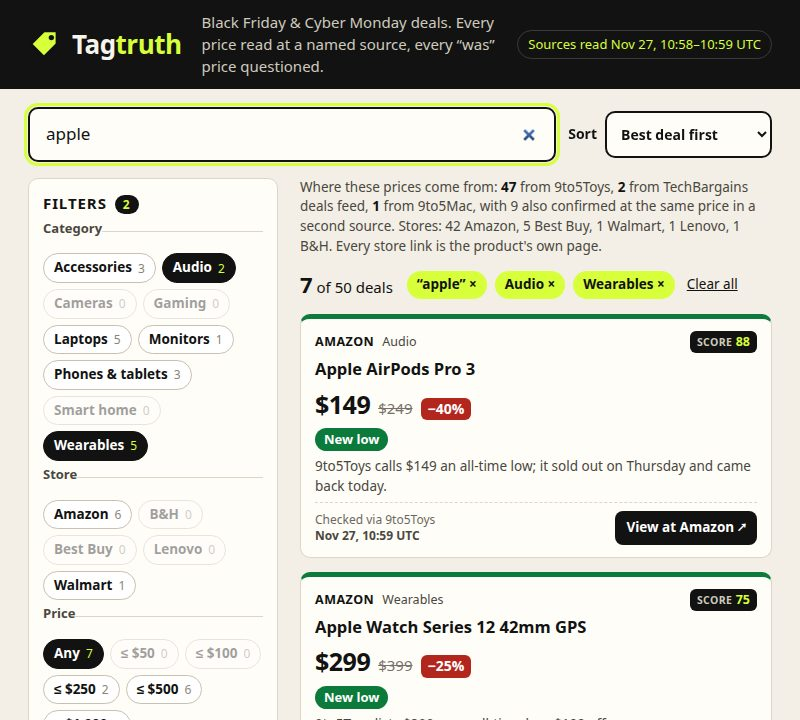
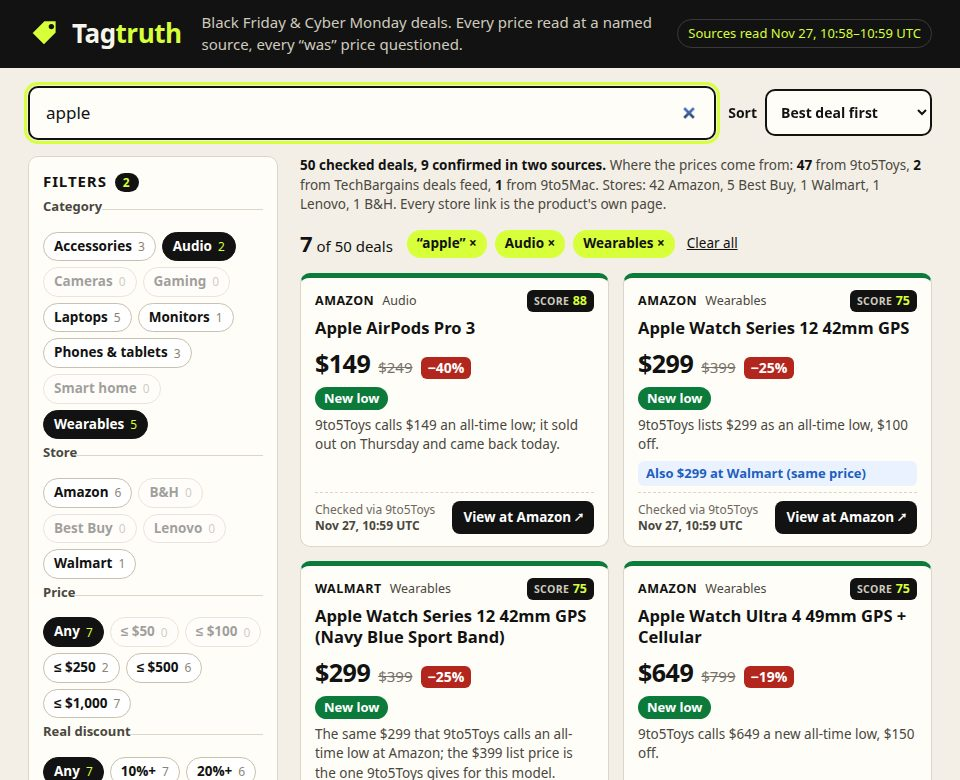
Review fixes: deal shot shows full trail and both stores, phone sort, verdict row
- Deal page: the source trail is a two-column grid on desktop with each value in one cell (block on phones).
- Deal page: store links in the comparison table don't wrap.
- Shot 3 is 800x860, so both store rows and the whole trail show.
- Shot 2 is 960x780: two card columns with the Walmart cross-store pill and the full filter column.
- Phone: the sort select fills the row, now that the label is the searchbar's flex child.
- The verdict row wraps, and the Inflated flag has no extra left margin.
- Removed the unused .v-routine and .v-inflated rules.
- The source line leads with "50 checked deals, 9 confirmed in two sources".

diff --git a/app/style.css b/app/style.css
@@ -80,8 +80,6 @@ main { max-width: 1320px; margin: 0 auto; padding: 18px 28px 32px; }
 .v-low { --vc: var(--low); }
 .v-match { --vc: var(--match); }
 .v-fair { --vc: var(--fair); }
-.v-routine { --vc: var(--routine); }
-.v-inflated { --vc: var(--inflated); }
 .card-top { display: flex; align-items: center; gap: 8px; font-size: 12.5px; }
 .store { font-weight: 800; text-transform: uppercase; letter-spacing: 0.04em; }
 .cat { color: var(--ink-2); }
@@ -93,7 +91,8 @@ main { max-width: 1320px; margin: 0 auto; padding: 18px 28px 32px; }
 .now { font-size: 25px; font-weight: 850; letter-spacing: -0.02em; }
 .was { color: #77716a; font-size: 15px; }
 .off { padding: 1px 7px; border-radius: 6px; background: var(--sale); color: #fff; font-weight: 800; font-size: 14px; }
-.verdict { margin: 0; display: flex; align-items: center; gap: 8px; }
+.verdict { margin: 0; display: flex; flex-wrap: wrap; align-items: center; gap: 6px 8px; }
+.verdict .flag { margin-left: 0; }
 .pill { display: inline-block; padding: 2px 9px; border-radius: 999px; background: var(--vc); color: #fff; font-weight: 800; font-size: 13px; }
 .real { font-size: 13px; font-weight: 700; color: var(--inflated); }
 .why { margin: 0; font-size: 13.5px; color: var(--ink-2); }
@@ -147,7 +146,8 @@ main { max-width: 1320px; margin: 0 auto; padding: 18px 28px 32px; }
 .related { margin-top: 22px; }
 .evidence h2, .compare h2, .related h2 { font-size: 19px; margin: 0 0 10px; }
 .trail { list-style: none; margin: 0; padding: 14px 16px; background: var(--card); border: 1px solid var(--line); border-radius: var(--radius); display: grid; gap: 8px; font-size: 14.5px; }
-.trail span { display: inline-block; min-width: 128px; font-weight: 700; }
+.trail li { display: grid; grid-template-columns: 128px 1fr; gap: 10px; align-items: baseline; }
+.trail span { font-weight: 700; }
 .flag { display: inline-block; margin-left: 6px; padding: 1px 8px; border-radius: 999px; border: 1.5px solid var(--inflated); color: var(--inflated); font-weight: 800; font-size: 12px; }
 .disclose { margin: 0 0 12px; font-size: 13.5px; color: var(--ink-2); }
 .disclose b { color: var(--ink); }
@@ -155,6 +155,7 @@ main { max-width: 1320px; margin: 0 auto; padding: 18px 28px 32px; }
 .compare table { width: 100%; border-collapse: collapse; background: var(--card); border: 1px solid var(--line); border-radius: var(--radius); overflow: hidden; font-size: 14.5px; }
 .compare th, .compare td { padding: 9px 12px; text-align: left; border-bottom: 1px solid var(--line); }
 .compare tr.here { background: #f4ffd0; }
+.compare a { white-space: nowrap; }
 .empty { padding: 40px 0; }
 
 .foot { max-width: 1320px; margin: 0 auto; padding: 8px 28px 40px; font-size: 13.5px; color: var(--ink-2); }
@@ -179,6 +180,7 @@ main { max-width: 1320px; margin: 0 auto; padding: 18px 28px 32px; }
   .below.two { grid-template-columns: 1fr; }
   .deal h1 { font-size: 24px; }
   .prices.big .now { font-size: 36px; }
+  .trail li { display: block; }
   .trail span { display: block; }
   .compare th:nth-child(3), .compare td:nth-child(3) { display: none; }
   .foot { padding: 4px 14px 30px; }

diff --git a/app/ui/detail.js b/app/ui/detail.js
@@ -62,14 +62,14 @@ function sourceTrail(deal) {
   const { posted, stale } = reportAge(deal);
   const age = ageBetween(posted, source.read);
   const confirm = deal.confirm
-    ? `<li><span>Also seen</span>${money(deal.confirm.price)} on ${escapeHtml(sources[deal.confirm.src].name)}, ${utcStamp(deal.confirm.at)}</li>`
+    ? `<li><span>Also seen</span><div>${money(deal.confirm.price)} on ${escapeHtml(sources[deal.confirm.src].name)}, ${utcStamp(deal.confirm.at)}</div></li>`
     : '';
   return `<ul class="trail">
-  <li><span>Price read in</span><a href="${escapeHtml(source.url)}" target="_blank" rel="noopener">${escapeHtml(source.name)}</a> (${escapeHtml(hostOf(source.url))}), which names ${escapeHtml(deal.store)} as the seller</li>
-  <li><span>Source posted</span>${utcStamp(posted)}</li>
-  <li><span>We checked it</span>${utcStamp(source.read)}, ${age} after it was posted${stale ? ' <em class="stale">older report: prices may have moved</em>' : ''}</li>
+  <li><span>Price read in</span><div><a href="${escapeHtml(source.url)}" target="_blank" rel="noopener">${escapeHtml(source.name)}</a> (${escapeHtml(hostOf(source.url))}), which names ${escapeHtml(deal.store)} as the seller</div></li>
+  <li><span>Source posted</span><div>${utcStamp(posted)}</div></li>
+  <li><span>We checked it</span><div>${utcStamp(source.read)}, ${age} after it was posted${stale ? ' <em class="stale">older report: prices may have moved</em>' : ''}</div></li>
   ${confirm}
-  <li><span>Store link</span>The product's own page, as the source linked it (affiliate tag removed)</li>
+  <li><span>Store link</span><div>The product's own page, as the source linked it (affiliate tag removed)</div></li>
 </ul>`;
 }
 

diff --git a/app/ui/list.js b/app/ui/list.js
@@ -16,7 +16,7 @@ export function listShell(query, deals) {
   <form class="searchbar" role="search" id="searchform">
     <label for="q" class="sr">Search deals</label>
     <input id="q" type="search" placeholder="Search ${total} checked deals: AirPods, MacBook, Switch 2, all-time low…" value="${escapeHtml(query.q)}" autocomplete="off">
-    <span id="sortslot">${sortMenu(query)}</span>
+    ${sortMenu(query)}
   </form>
   <div class="layout">
     <details class="filters" id="filters" open>
@@ -44,7 +44,7 @@ function disclosure(deals) {
   const bySource = tally(deals, (d) => sources[d.src].name).map(([name, n]) => `<b>${n}</b> from ${escapeHtml(name)}`).join(', ');
   const byStore = tally(deals, (d) => d.store).map(([name, n]) => `${n} ${escapeHtml(name)}`).join(', ');
   const confirmed = deals.filter((d) => d.confirm).length;
-  return `<p class="disclose">Where these prices come from: ${bySource}<span class="more">, with ${confirmed} also confirmed at the same price in a second source. Stores: ${byStore}. Every store link is the product's own page</span>.</p>`;
+  return `<p class="disclose"><b>${deals.length} checked deals, ${confirmed} confirmed in two sources.</b> Where the prices come from: ${bySource}<span class="more">. Stores: ${byStore}. Every store link is the product's own page</span>.</p>`;
 }
 
 export function resultsGrid(shown, all) {
